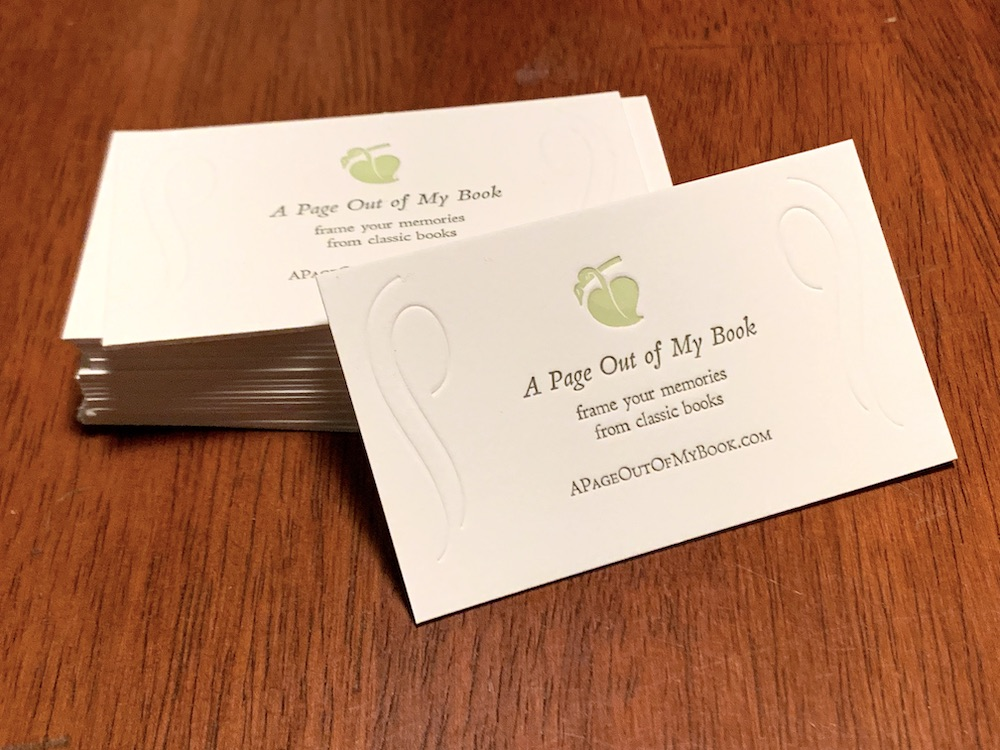
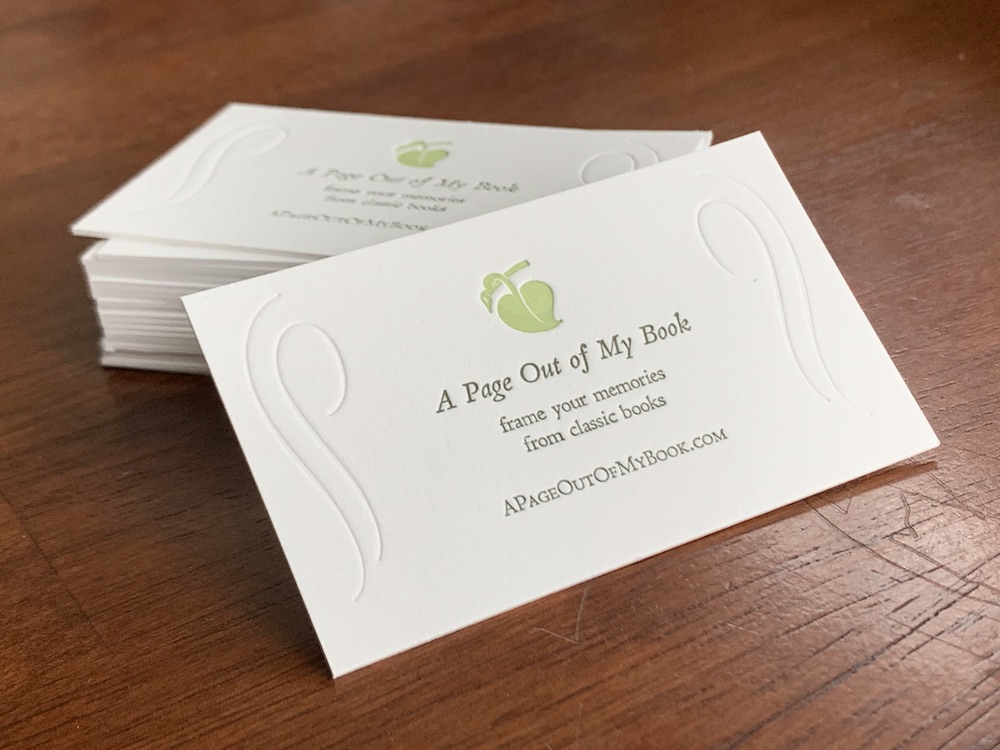
Better cards image

diff --git a/_posts/2019-01-31-a-page-out-of-my-book.md b/_posts/2019-01-31-a-page-out-of-my-book.md
@@ -22,7 +22,7 @@ Checkout [the site][site] if you also enjoy classic books and are interested cre
 
 {% include image.html file="in-home.jpg" %}
 
-{% include image.html file="cards.jpg" description="Of course I also had to design and letter pressed some business cards for the venture" %}
+{% include image.html file="cards.jpg" description="Of course I also had to design and letter press some business cards for the venture" %}
 
 
 
